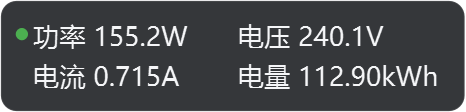
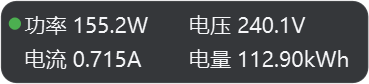
feat: 默认贴入任务栏内部并避开时钟托盘

diff --git a/taskbar_widget.py b/taskbar_widget.py
@@ -43,16 +43,17 @@ class FloatingMonitor(QWidget):
         self._rows = 2
         self._columns = 2
         self._rotate_seconds = 5.0
-        self._font_size = 11
+        self._font_size = 9
         self._opacity = 0.86
+        self._in_taskbar = True
 
         self._pages: list[list[str]] = []
         self._page = 0
         self._cell_widths: list[int] = []
         self._line_height = 18
-        self._pad = 9
-        self._gap = 12
-        self._dot_width = 10
+        self._pad = 5
+        self._gap = 8
+        self._dot_width = 9
 
         self._drag_offset: QPoint | None = None
         self._drag_start: QPoint | None = None
@@ -84,8 +85,14 @@ class FloatingMonitor(QWidget):
         self._rows = max(1, min(4, int(config.get("floating_rows", 2))))
         self._columns = max(1, min(2, int(config.get("floating_columns", 2))))
         self._rotate_seconds = float(config.get("floating_rotate_seconds", 5.0))
-        self._font_size = max(8, min(24, int(config.get("floating_font_size", 11))))
+        self._font_size = max(8, min(24, int(config.get("floating_font_size", 9))))
         self._opacity = max(0.3, min(1.0, float(config.get("floating_opacity", 0.86))))
+        old_in_taskbar = self._in_taskbar
+        self._in_taskbar = bool(config.get("floating_in_taskbar", True))
+        # 贴任务栏时用更紧凑的内边距，避免小窗比任务栏还高。
+        self._pad = 5 if self._in_taskbar else 9
+        self._gap = 8 if self._in_taskbar else 12
+        self._dot_width = 9 if self._in_taskbar else 10
         self._font = QFont("Microsoft YaHei UI", self._font_size)
         self._metrics_font = QFont(self._font)
 
@@ -100,6 +107,11 @@ class FloatingMonitor(QWidget):
 
         self._rebuild_pages()
         self._restore_position(initial=initial)
+        if old_in_taskbar != self._in_taskbar:
+            if self._in_taskbar:
+                self._place_in_taskbar()
+            else:
+                self._place_above_taskbar()
 
         if config.get("floating_enabled", True):
             if not self.isVisible():
@@ -239,14 +251,44 @@ class FloatingMonitor(QWidget):
             self._clamp_position()
             return
         if initial or not self.isVisible():
-            screen = QApplication.primaryScreen()
-            if screen is None:
-                return
-            area = screen.availableGeometry()
-            self.move(
-                area.right() - self.width() - 12,
-                area.bottom() - self.height() - 12,
-            )
+            if self._in_taskbar:
+                self._place_in_taskbar()
+            else:
+                self._place_above_taskbar()
+
+    def _place_above_taskbar(self) -> None:
+        screen = QApplication.primaryScreen()
+        if screen is None:
+            return
+        area = screen.availableGeometry()
+        self.move(
+            area.right() - self.width() - 12,
+            area.bottom() - self.height() - 12,
+        )
+
+    def _place_in_taskbar(self) -> None:
+        """把窗口覆盖到任务栏内部，并给右侧时钟/托盘留出空间。
+
+        这不是注入 Explorer 的子窗口，而是置顶无边框窗口；
+        视觉上位于任务栏内，稳定性远高于 deskband。
+        """
+        screen = QApplication.primaryScreen()
+        if screen is None:
+            return
+        full = screen.geometry()
+        area = screen.availableGeometry()
+        taskbar_height = max(0, full.bottom() - area.bottom())
+        if taskbar_height < 16:
+            # 任务栏不在底部/自动隐藏时退回“任务栏上方”。
+            self._place_above_taskbar()
+            return
+        taskbar_top = full.bottom() - taskbar_height + 1
+        y = taskbar_top + max(0, (taskbar_height - self.height()) // 2)
+        # 右侧约 220 逻辑像素留给时钟和系统托盘。
+        x = full.right() - self.width() - 220
+        x = max(full.left() + 8, x)
+        self.move(x, y)
+        self._clamp_position()
 
     def _clamp_position(self) -> None:
         screen = QApplication.screenAt(self.frameGeometry().center())

diff --git a/gui.py b/gui.py
@@ -274,6 +274,12 @@ class MainWindow(QMainWindow):
 
         self.floating_cb = QCheckBox("显示悬浮窗")
         floating_layout.addWidget(self.floating_cb)
+        self.floating_taskbar_cb = QCheckBox("贴任务栏")
+        self.floating_taskbar_cb.setToolTip(
+            "把悬浮窗覆盖到任务栏内部，并给右侧时钟/托盘留出空间；\n"
+            "这是稳定的置顶窗口，不注入 Explorer。"
+        )
+        floating_layout.addWidget(self.floating_taskbar_cb)
         floating_layout.addSpacing(14)
 
         floating_layout.addWidget(QLabel("排列："))
@@ -309,7 +315,8 @@ class MainWindow(QMainWindow):
         floating_layout.addWidget(self.floating_opacity_spin)
 
         floating_layout.addStretch(1)
-        floating_hint = QLabel("拖动移动 · 左键打开 · 右键菜单")
+        floating_hint = QLabel("拖动移动 · 左键打开")
+        floating_hint.setToolTip("右键悬浮窗可隐藏或退出程序")
         floating_hint.setStyleSheet("color: #757575;")
         floating_layout.addWidget(floating_hint)
         root.addWidget(floating_group)
@@ -383,6 +390,10 @@ class MainWindow(QMainWindow):
 
         with QSignalBlocker(self.floating_cb):
             self.floating_cb.setChecked(bool(self.config.get("floating_enabled", True)))
+        with QSignalBlocker(self.floating_taskbar_cb):
+            self.floating_taskbar_cb.setChecked(
+                bool(self.config.get("floating_in_taskbar", True))
+            )
         with QSignalBlocker(self.floating_layout_combo):
             target = (
                 int(self.config.get("floating_rows", 2)),
@@ -398,7 +409,7 @@ class MainWindow(QMainWindow):
             )
         with QSignalBlocker(self.floating_font_spin):
             self.floating_font_spin.setValue(
-                int(self.config.get("floating_font_size", 11))
+                int(self.config.get("floating_font_size", 9))
             )
         with QSignalBlocker(self.floating_opacity_spin):
             self.floating_opacity_spin.setValue(
@@ -419,6 +430,9 @@ class MainWindow(QMainWindow):
         self.autostart_cb.toggled.connect(self._on_autostart_toggled)
         self.interval_spin.valueChanged.connect(self._on_interval_changed)
         self.floating_cb.toggled.connect(self._on_floating_toggled)
+        self.floating_taskbar_cb.toggled.connect(
+            self._on_floating_taskbar_toggled
+        )
         self.floating_layout_combo.currentIndexChanged.connect(
             self._on_floating_layout_changed
         )
@@ -877,6 +891,10 @@ class MainWindow(QMainWindow):
         self.statusBar().showMessage(
             f"悬浮窗已{'显示' if checked else '隐藏'}", 3000
         )
+
+    def _on_floating_taskbar_toggled(self, checked: bool) -> None:
+        self.config["floating_in_taskbar"] = bool(checked)
+        self._persist()
 
     def _on_floating_layout_changed(self, _index: int) -> None:
         data = self.floating_layout_combo.currentData()

diff --git a/utils.py b/utils.py
@@ -68,10 +68,11 @@ DEFAULT_CONFIG: dict[str, Any] = {
 
     # 贴任务栏悬浮窗（类似 TrafficMonitor）
     "floating_enabled": True,
+    "floating_in_taskbar": True,
     "floating_rows": 2,
     "floating_columns": 2,
     "floating_rotate_seconds": 5.0,
-    "floating_font_size": 11,
+    "floating_font_size": 9,
     "floating_opacity": 0.86,
     "floating_x": None,
     "floating_y": None,
@@ -248,6 +249,9 @@ def normalize_config(raw: Any) -> dict[str, Any]:
     # 悬浮窗设置
     config["floating_enabled"] = bool(
         raw.get("floating_enabled", config["floating_enabled"])
+    )
+    config["floating_in_taskbar"] = bool(
+        raw.get("floating_in_taskbar", config["floating_in_taskbar"])
     )
     config["floating_rows"] = int(
         _clamp_float(raw.get("floating_rows"), 1, 4, config["floating_rows"])

diff --git a/README.md b/README.md
@@ -12,7 +12,7 @@
 
 ![悬浮窗预览](docs/floating.png)
 
-悬浮窗默认贴在右下角任务栏上方，显示：
+悬浮窗默认覆盖在右下角**任务栏内部**，并避开时钟/系统托盘；也可以取消“贴任务栏”让它回到任务栏上方。显示：
 
 ```text
 功率 159.4W    电压 240.2V
@@ -20,6 +20,10 @@
 ```
 
 拖动可移动，左键打开主界面，右键可以隐藏或退出；设置里可以改排列、轮播秒数、字号和透明度。
+
+> Windows 11 已不支持传统 deskband，真正的 Explorer 子窗口没有稳定 API。
+> 这里的“贴任务栏”是置顶无边框覆盖层，外观和 TrafficMonitor 类似，
+> 不注入 Explorer，因此不会因系统更新破坏任务栏。
 
 > **免责声明**
 >
@@ -161,10 +165,11 @@ EC ED | 长度(2) | 数据(32) | CRC(2)
   "scan_timeout": 8.0,
   "auto_start": false,
   "floating_enabled": true,
+  "floating_in_taskbar": true,
   "floating_rows": 2,
   "floating_columns": 2,
   "floating_rotate_seconds": 5.0,
-  "floating_font_size": 11,
+  "floating_font_size": 9,
   "floating_opacity": 0.86,
   "floating_x": null,
   "floating_y": null
